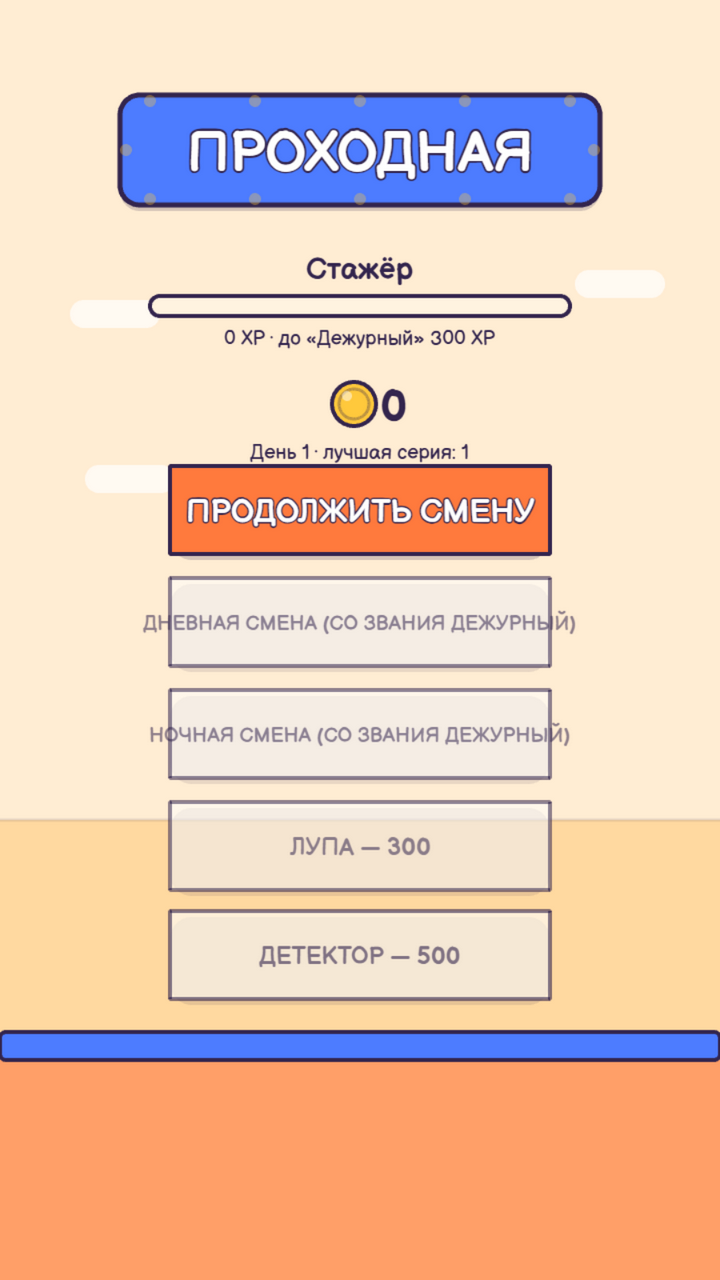
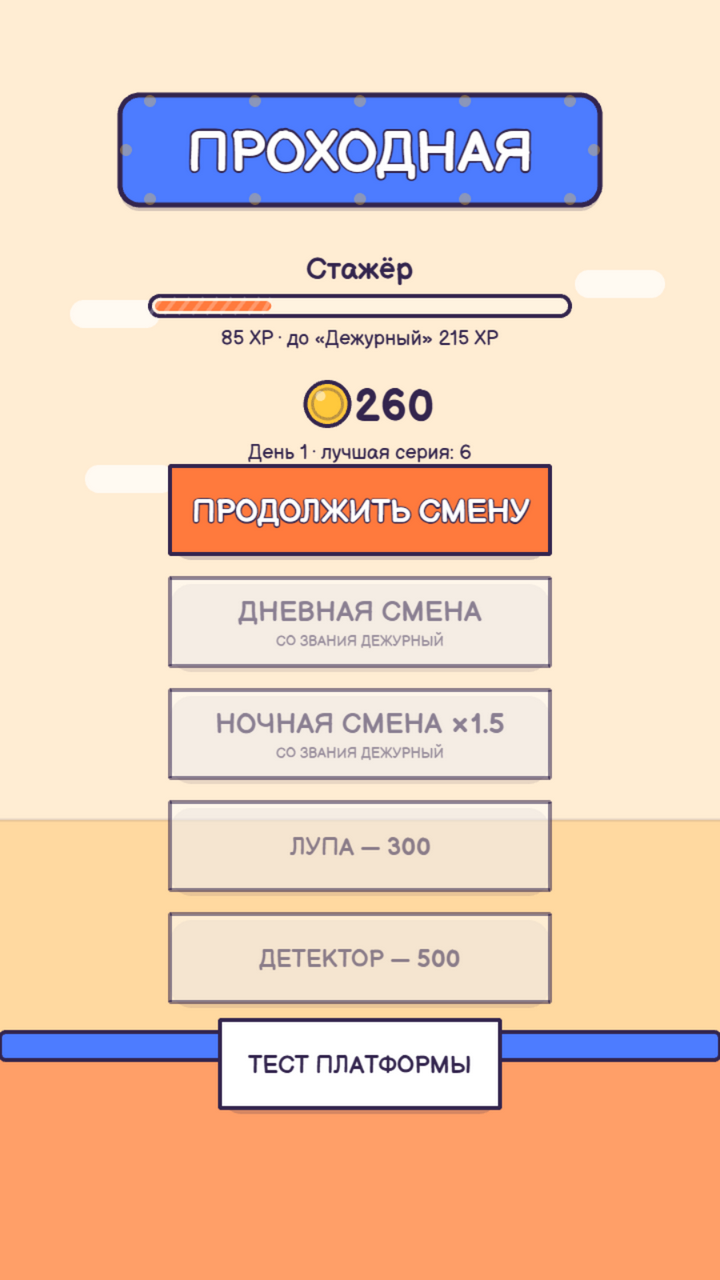
починил заезжание текста в кнопках кабинета
Длинные подписи дневной/ночной смены вынесены в мелкий подзаголовок внутри кнопки, makeButton ужимает надписи шире рамки. Обновлён скриншот README.

diff --git a/src/ui/button.ts b/src/ui/button.ts
@@ -9,11 +9,14 @@ export interface ButtonOptions {
   fontSize?: number;
   /** Вторичная кнопка: белая заливка, чернильный текст (кабинет, «В МЕНЮ»). */
   secondary?: boolean;
+  /** Мелкая строка под основной надписью (условие разблокировки и т.п.). */
+  subtitle?: string;
 }
 
 /**
  * Кнопка «Мульт-поп»: hard-тень + ink-обводка 4px + squash-нажатие (спека §4.5).
  * Тап-зона сохраняется целиком, текст uppercase с ink-stroke — читаем на солнце.
+ * Длинные надписи автоматически ужимаются, чтобы не вылезать за рамку.
  */
 export function makeButton(
   scene: Phaser.Scene,
@@ -23,7 +26,7 @@ export function makeButton(
   onClick: () => void,
   opts: ButtonOptions = {},
 ): Phaser.GameObjects.Container {
-  const { width = 340, height = 88, color = THEME.ACCENT, fontSize = 32, secondary = false } = opts;
+  const { width = 340, height = 88, color = THEME.ACCENT, fontSize = 32, secondary = false, subtitle } = opts;
   const fill = secondary ? THEME.PAPER : color;
 
   const container = scene.add.container(cx, cy);
@@ -36,15 +39,35 @@ export function makeButton(
     .setStrokeStyle(4, THEME.INK, 1)
     .setInteractive({ useHandCursor: true });
 
-  const text = scene.add
-    .text(0, 0, label.toUpperCase(), {
-      fontFamily: FONT,
-      fontSize: `${fontSize}px`,
-      color: secondary ? INK_HEX : '#ffffff',
-      fontStyle: 'bold',
-    })
-    .setOrigin(0.5, 0.5)
-    .setStroke(INK_HEX, secondary ? 0 : 3);
+  const textColor = secondary ? INK_HEX : '#ffffff';
+  const maxTextWidth = width - 32;
+
+  const makeText = (value: string, size: number, y: number): Phaser.GameObjects.Text => {
+    const t = scene.add
+      .text(0, y, value.toUpperCase(), {
+        fontFamily: FONT,
+        fontSize: `${size}px`,
+        color: textColor,
+        fontStyle: 'bold',
+      })
+      .setOrigin(0.5, 0.5)
+      .setStroke(INK_HEX, secondary ? 0 : 3);
+    // автоуменьшение, если надпись шире кнопки
+    if (t.width > maxTextWidth) {
+      const fitted = Math.max(14, Math.floor((size * maxTextWidth) / t.width));
+      t.setFontSize(fitted);
+    }
+    return t;
+  };
+
+  const mainY = subtitle !== undefined ? -12 : 0;
+  const text = makeText(label, fontSize, mainY);
+  container.add([shadow, rect, text]);
+
+  if (subtitle) {
+    const sub = makeText(subtitle, 14, 18).setAlpha(0.85);
+    container.add(sub);
+  }
 
   const release = (): void => {
     scene.tweens.add({ targets: container, scaleX: 1, scaleY: 1, duration: 90, ease: 'Back.easeOut' });
@@ -60,6 +83,5 @@ export function makeButton(
     onClick();
   });
 
-  container.add([shadow, rect, text]);
   return container;
 }

diff --git a/src/scenes/MenuScene.ts b/src/scenes/MenuScene.ts
@@ -156,13 +156,18 @@ export class MenuScene extends Phaser.Scene {
             this,
             width / 2,
             622,
-            !unlocked
-              ? 'Дневная смена (со звания Дежурный)'
-              : dailyPlayed
-                ? 'Дневная смена (завтра)'
-                : 'Дневная смена',
+            'Дневная смена',
             () => this.startDaily(),
-            { secondary: true, width: 380, fontSize: 20 },
+            {
+              secondary: true,
+              width: 380,
+              fontSize: 28,
+              subtitle: !unlocked
+                ? 'со звания Дежурный'
+                : dailyPlayed
+                  ? 'уже сыграна — завтра'
+                  : undefined,
+            },
           ),
       },
       {
@@ -173,13 +178,18 @@ export class MenuScene extends Phaser.Scene {
             this,
             width / 2,
             734,
-            !unlocked
-              ? 'Ночная смена (со звания Дежурный)'
-              : nightPlayed
-                ? 'Ночная смена (завтра)'
-                : 'Ночная смена ×1.5',
+            'Ночная смена ×1.5',
             () => this.startNight(),
-            { secondary: true, width: 380, fontSize: 20 },
+            {
+              secondary: true,
+              width: 380,
+              fontSize: 28,
+              subtitle: !unlocked
+                ? 'со звания Дежурный'
+                : nightPlayed
+                  ? 'уже сыграна — завтра'
+                  : undefined,
+            },
           ),
       },
       {
